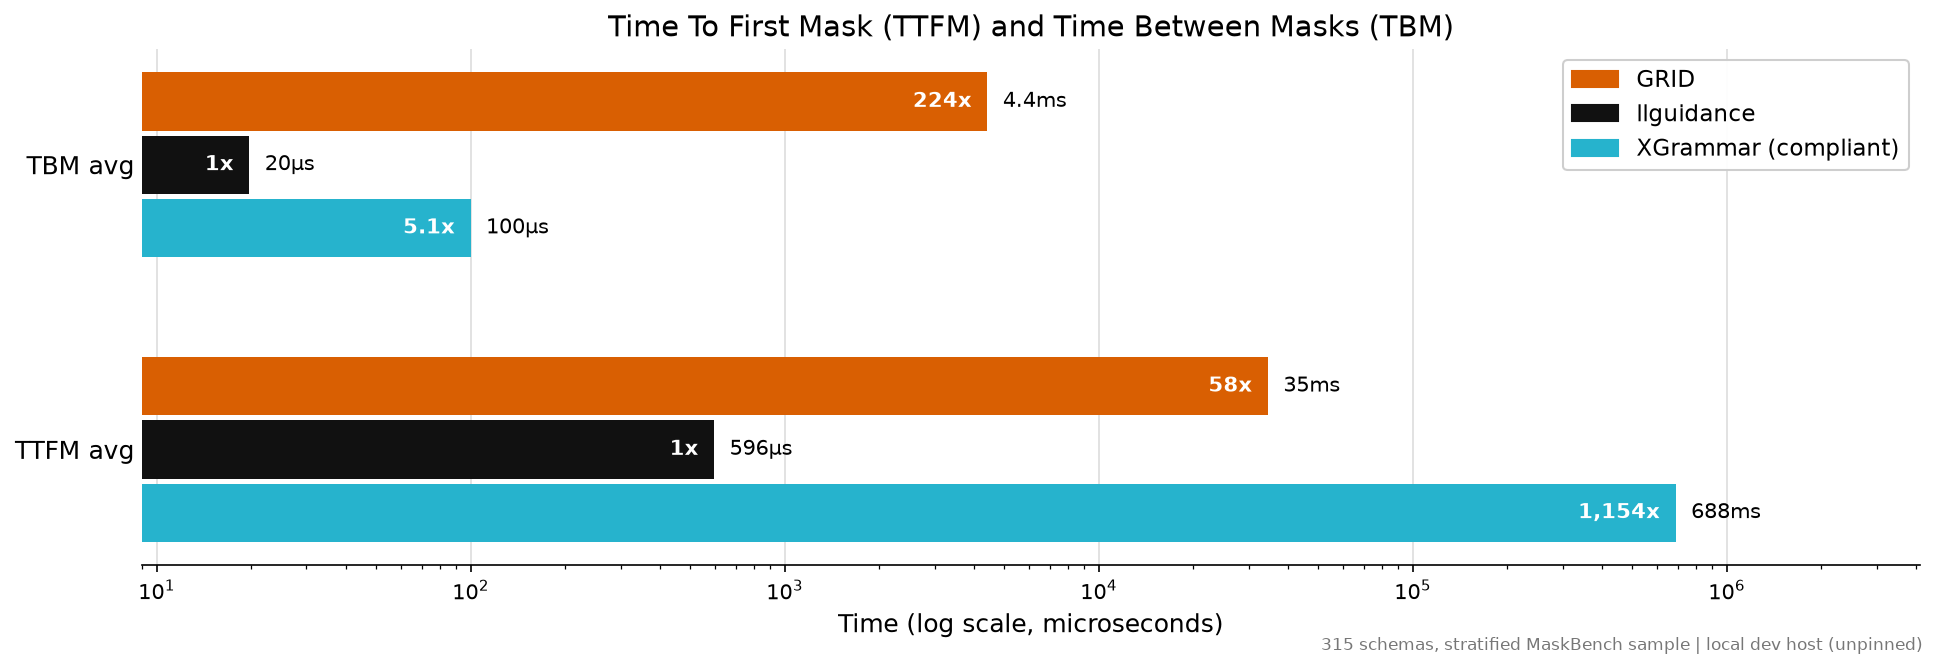
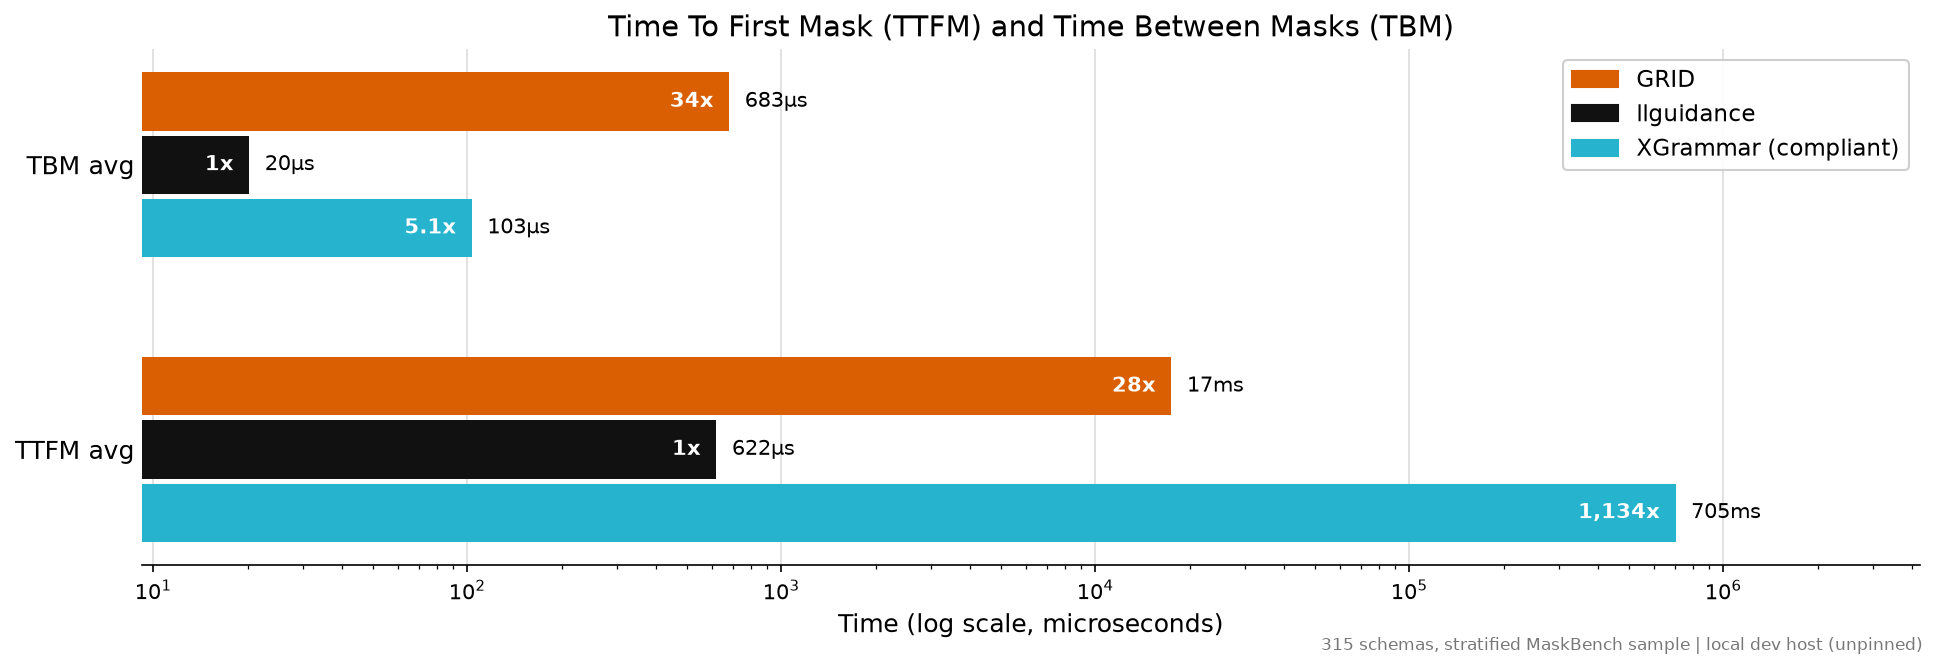
paper: GRID draft v2 (17 pp, compiles clean) + MaskBench v6 refresh + host-label plumbing
- paper/: full draft in the Outlines-paper register - problems P1-P6,
  eleven propositions with exact preconditions (viable-prefix oracle,
  token-terminal bridge, OBL-KEY1 as Myhill-Nerode refinement, genN normal
  form, guarantee set incl. the column-RBAC unenforceability sketch and the
  honest mode-2 termination weakening), TikZ architecture/walkthrough/
  defer-timing figures, worked SQL + cold-schema examples, full evaluation
  synced verbatim to the committed kernel-v6 records (engine-comparison
  lead over llguidance at p50+p90, MaskBench, Spider + repair, G7, the
  honest 5/7 G8 record with the transient characterization and
  vllm-project/vllm#48229), lineage per policy, zero unsourced numbers,
  zero undefined refs. Build artifacts gitignored; main.pdf committed.
- bench/RESULTS-maskbench.md + maskbench.png: re-recorded at kernel v6,
  same 315-schema sample, correctness columns byte-identical; TBM p90
  27.8 ms -> 208 us (134x), p99 30.2 -> 8.3 ms, avg 4.4 ms -> 683 us, TTFM
  p50 13.2 -> 7.2 ms; comparison arms moved <10% (delta is GRID-side).
  Stale "named next target" boilerplate updated in the harness + report.
- bench/compare_engines.py now honors GRID_HOST_LABEL; RESULTS.md /
  RESULTS-qwen.md headers corrected to the declared H100 SXM5 runner (the
  runs were executed there; the harness had hard-coded "local dev").
- README: MaskBench section updated to the v6 record.

diff --git a/bench/compare_engines.py b/bench/compare_engines.py
@@ -29,6 +29,7 @@ Run:  .venv-bench/bin/python bench/compare_engines.py --out bench/RESULTS.md
 from __future__ import annotations
 
 import argparse
+import os
 import pathlib
 import random
 import statistics
@@ -341,8 +342,9 @@ def write_report(path: str, tokenizer: str, replays, results: dict) -> None:
         "# GRID vs XGrammar vs llguidance vs Outlines — SQL-subset constrained decoding",
         "",
         f"Tokenizer: `{tokenizer}` | replays: {len(replays)} "
-        f"({sum(len(s) for _, s in replays)} steps total) | host: local dev (unpinned — "
-        "G7/G9 bind on the declared cloud runner)",
+        f"({sum(len(s) for _, s in replays)} steps total) | host: "
+        + os.environ.get("GRID_HOST_LABEL",
+                         "local dev (unpinned — G7/G9 bind on the declared cloud runner)"),
         "",
         "GRID's hot path runs in grid_core Rust kernels: the trie walk (in-kernel CD "
         "grouping + alias expansion) and the per-step CD-group verdicts + LALR simulate; "

diff --git a/bench/maskbench_grid.py b/bench/maskbench_grid.py
@@ -368,7 +368,7 @@ def write_report(path: str, aggs: list[dict], meta_line: str) -> None:
         "terminals run in-kernel); the p90+ tail is cold-miss trie walks over the "
         "128k vocabulary. MaskBench runs each schema once — the write-back cache "
         "that amortizes GRID's misses across requests in serving never warms here; "
-        "the cold walk itself is the named next optimization target.",
+        "the cold walk was cut 9.3x by the kernel v5.1 verdict-equivalence grouping (this record; TBM p90 27.8 ms -> 208 us vs the v3-era run).",
         "- GRID's TTFM is the Python table build per schema (scanner subset "
         "construction is alphabet-compressed with per-state eps closures; "
         "further kernel work possible).",

diff --git a/bench/RESULTS-maskbench.md b/bench/RESULTS-maskbench.md
@@ -6,22 +6,22 @@ Protocol: maskbench's runner semantics reproduced verbatim (TTFM = schema compil
 
 | metric | GRID | llguidance | XGrammar (compliant) |
 |:---|---:|---:|---:|
-| TBM avg | 4,422 | 20 | 100 |
-| TBM p25 | 23 | 5 | 3 |
-| TBM p50 | 27 | 10 | 10 |
-| TBM p75 | 39 | 21 | 29 |
-| TBM p90 | 27,803 | 31 | 55 |
-| TBM p95 | 29,182 | 57 | 324 |
-| TBM p99 | 30,180 | 182 | 2,603 |
-| TBM p99.9 | 35,703 | 1,054 | 7,583 |
-| TBM max | 109,790 | 2,177 | 11,734 |
-| TTFM avg | 34,581 | 596 | 687,597 |
-| TTFM p25 | 7,729 | 218 | 757 |
-| TTFM p50 | 13,168 | 305 | 2,342 |
-| TTFM p75 | 27,408 | 416 | 207,049 |
-| TTFM p90 | 66,088 | 888 | 1,174,378 |
-| TTFM p95 | 157,173 | 1,764 | 2,917,599 |
-| TTFM p99 | 359,130 | 7,657 | 12,997,791 |
+| TBM avg | 683 | 20 | 103 |
+| TBM p25 | 15 | 5 | 3 |
+| TBM p50 | 31 | 10 | 11 |
+| TBM p75 | 38 | 21 | 30 |
+| TBM p90 | 208 | 32 | 60 |
+| TBM p95 | 7,760 | 59 | 338 |
+| TBM p99 | 8,278 | 185 | 2,680 |
+| TBM p99.9 | 46,028 | 1,079 | 7,790 |
+| TBM max | 115,824 | 2,015 | 12,455 |
+| TTFM avg | 17,488 | 622 | 705,140 |
+| TTFM p25 | 5,325 | 229 | 848 |
+| TTFM p50 | 7,188 | 320 | 2,408 |
+| TTFM p75 | 9,940 | 441 | 211,992 |
+| TTFM p90 | 19,389 | 952 | 1,219,010 |
+| TTFM p95 | 81,170 | 1,788 | 3,025,603 |
+| TTFM p99 | 320,163 | 7,956 | 13,383,740 |
 | tokens | 58,188 | 62,311 | 70,275 |
 | schemas | 315 | 315 | 315 |
 | passing | 206 | 251 | 283 |
@@ -32,11 +32,11 @@ Protocol: maskbench's runner semantics reproduced verbatim (TTFM = schema compil
 
 Reading the table:
 - The three engines sit at different points of the coverage/upfrontness/latency trade-off: compile errors are *declared* non-support (visible, safe); validation errors (valid instance rejected) and invalidation errors (invalid instance accepted) are silent correctness gaps.
-- GRID's TBM p25-p75 is the grid_core kernel hit path (masks up to 512 terminals run in-kernel); the p90+ tail is cold-miss trie walks over the 128k vocabulary. MaskBench runs each schema once — the write-back cache that amortizes GRID's misses across requests in serving never warms here; the cold walk itself is the named next optimization target.
+- GRID's TBM p25-p75 is the grid_core kernel hit path (masks up to 512 terminals run in-kernel); the p90+ tail is cold-miss trie walks over the 128k vocabulary. MaskBench runs each schema once — the write-back cache that amortizes GRID's misses across requests in serving never warms here; the cold walk was cut 9.3x by the kernel v5.1 verdict-equivalence grouping (this record; TBM p90 27.8 ms -> 208 us vs the v3-era run).
 - GRID's TTFM is the Python table build per schema (scanner subset construction is alphabet-compressed with per-state eps closures; further kernel work possible).
 - GRID counts zero validation errors: every valid instance of every schema it compiled was accepted (definition-order properties, spec-default additionalProperties incl. typed extras).
 
-Engine versions: GRID 0.1.0.dev0, llguidance 1.7.6, XGrammar (compliant) 0.2.3.
+Engine versions: GRID 0.0.7, llguidance 1.7.6, XGrammar (compliant) 0.2.3.
 
 GRID notes: grid_core kernels active on 100% of compiled schemas (the rest exceed the 64-terminal kernel bound and run the pure-Python spec path).
 

diff --git a/README.md b/README.md
@@ -115,17 +115,19 @@ GRID participates via a JSON-Schema→`.grid` compiler
 (`bench/json_schema_to_grid.py`) and a protocol-exact runner
 (`bench/maskbench_grid.py`; arms: GRID, llguidance, XGrammar-compliant;
 llama-3.1 tokenizer; 315-schema stratified sample of the 11.3k corpus).
-Headlines after the 512-terminal kernel widening and the scanner-build fixes:
-**TBM p50/p75 27/39 µs** (was 32/459) vs llguidance 10/21 and XGrammar 10/29 —
-parity through p75, with kernels active on **100%** of compiled schemas;
-**TBM p99 30 ms** (was 202 ms; the remaining p90+ is cold trie-walk cost, the
-named next target); **TTFM p50 13 ms / p99 359 ms** (was 28 ms / 854 ms) —
-still behind llguidance's 0.3 ms but 15-35× ahead of XGrammar's p75+ blowups
-(207 ms → 13 s); **zero validation errors** on every schema GRID compiles — the
-only engine that never falsely rejected a valid instance (llguidance 3,
-XGrammar 27); honest compile-error boundary (79/315 — allOf, patternProperties,
-if/then/else…), llguidance-style. Chart regenerates via
-`bench/plot_maskbench.py`.
+Headlines at kernel v6 (refreshed 2026-07-10; correctness columns byte-identical
+to the v3-era record, comparison arms moved <10%):
+**TBM p50/p75 31/38 µs** vs llguidance 10/21 and XGrammar 11/30 — parity
+through p75, kernels active on **100%** of compiled schemas; **TBM p90
+208 µs / p99 8.3 ms** (was 27.8 ms / 30.2 ms at v3 — the cold trie-walk tail
+the old report named as the next target, cut 134×/3.6× by the v5.1
+verdict-equivalence grouping); TBM average 683 µs (was 4.4 ms); **TTFM p50
+7.2 ms** (was 13 ms) / p99 320 ms — still behind llguidance's 0.3 ms but far
+ahead of XGrammar's p75+ blowups (2.4 ms → 13.4 s); **zero validation
+errors** on every schema GRID compiles — the only engine that never falsely
+rejected a valid instance (llguidance 3, XGrammar 27); honest compile-error
+boundary (79/315 — allOf, patternProperties, if/then/else…),
+llguidance-style. Chart regenerates via `bench/plot_maskbench.py`.
 
 **Execution accuracy (Spider)** (`bench/spider_ex.py` →
 [`bench/RESULTS-spider.md`](bench/RESULTS-spider.md), full 1034-question dev set,

diff --git a/bench/RESULTS-qwen.md b/bench/RESULTS-qwen.md
@@ -1,6 +1,6 @@
 # GRID vs XGrammar vs llguidance vs Outlines — SQL-subset constrained decoding
 
-Tokenizer: `Qwen/Qwen2.5-0.5B-Instruct` | replays: 11 (509 steps total) | host: local dev (unpinned — G7/G9 bind on the declared cloud runner)
+Tokenizer: `Qwen/Qwen2.5-0.5B-Instruct` | replays: 11 (509 steps total) | host: Lambda 1xH100 SXM5 80GB, Ubuntu 24.04 (declared runner), kernel v6
 
 GRID's hot path runs in grid_core Rust kernels: the trie walk (in-kernel CD grouping + alias expansion) and the per-step CD-group verdicts + LALR simulate; masks stay in i32 buffers end-to-end. Cold misses pay the full walk (see the cache split). Outlines' CFG path delegates to llguidance (CFG_DEFAULT_BACKEND='llguidance'), so the Outlines and raw-llguidance arms share the same core matcher — the Outlines row adds outlines' logits-processor wrapper (consume + bitmask fill + apply).
 

diff --git a/bench/RESULTS.md b/bench/RESULTS.md
@@ -1,6 +1,6 @@
 # GRID vs XGrammar vs llguidance vs Outlines — SQL-subset constrained decoding
 
-Tokenizer: `gpt2` | replays: 11 (491 steps total) | host: local dev (unpinned — G7/G9 bind on the declared cloud runner)
+Tokenizer: `gpt2` | replays: 11 (491 steps total) | host: Lambda 1xH100 SXM5 80GB, Ubuntu 24.04 (declared runner), kernel v6
 
 GRID's hot path runs in grid_core Rust kernels: the trie walk (in-kernel CD grouping + alias expansion) and the per-step CD-group verdicts + LALR simulate; masks stay in i32 buffers end-to-end. Cold misses pay the full walk (see the cache split). Outlines' CFG path delegates to llguidance (CFG_DEFAULT_BACKEND='llguidance'), so the Outlines and raw-llguidance arms share the same core matcher — the Outlines row adds outlines' logits-processor wrapper (consume + bitmask fill + apply).
 